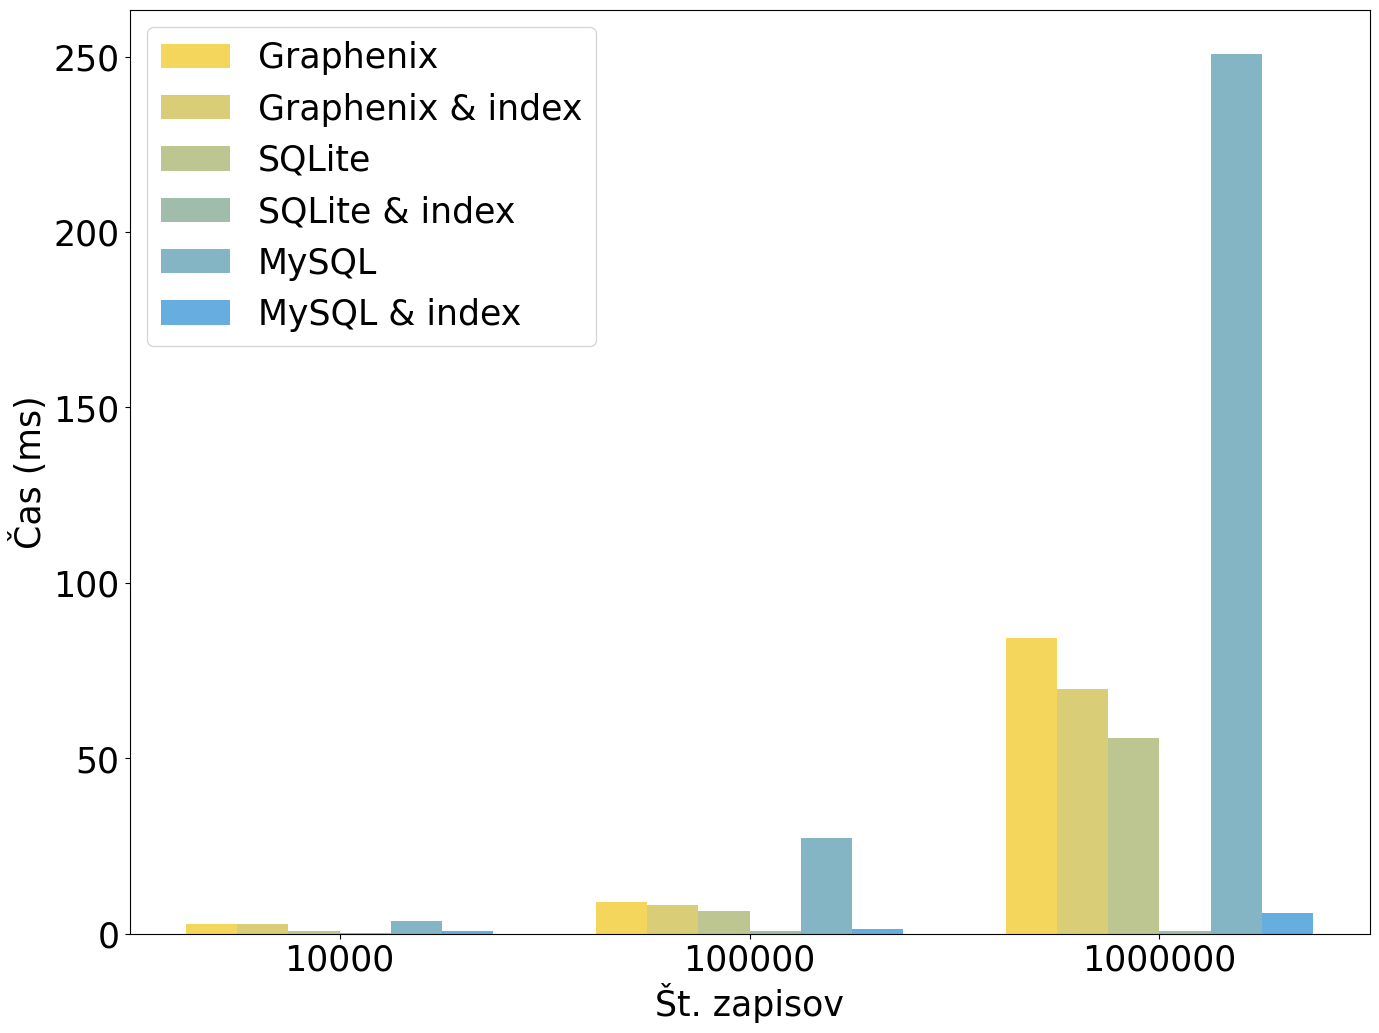
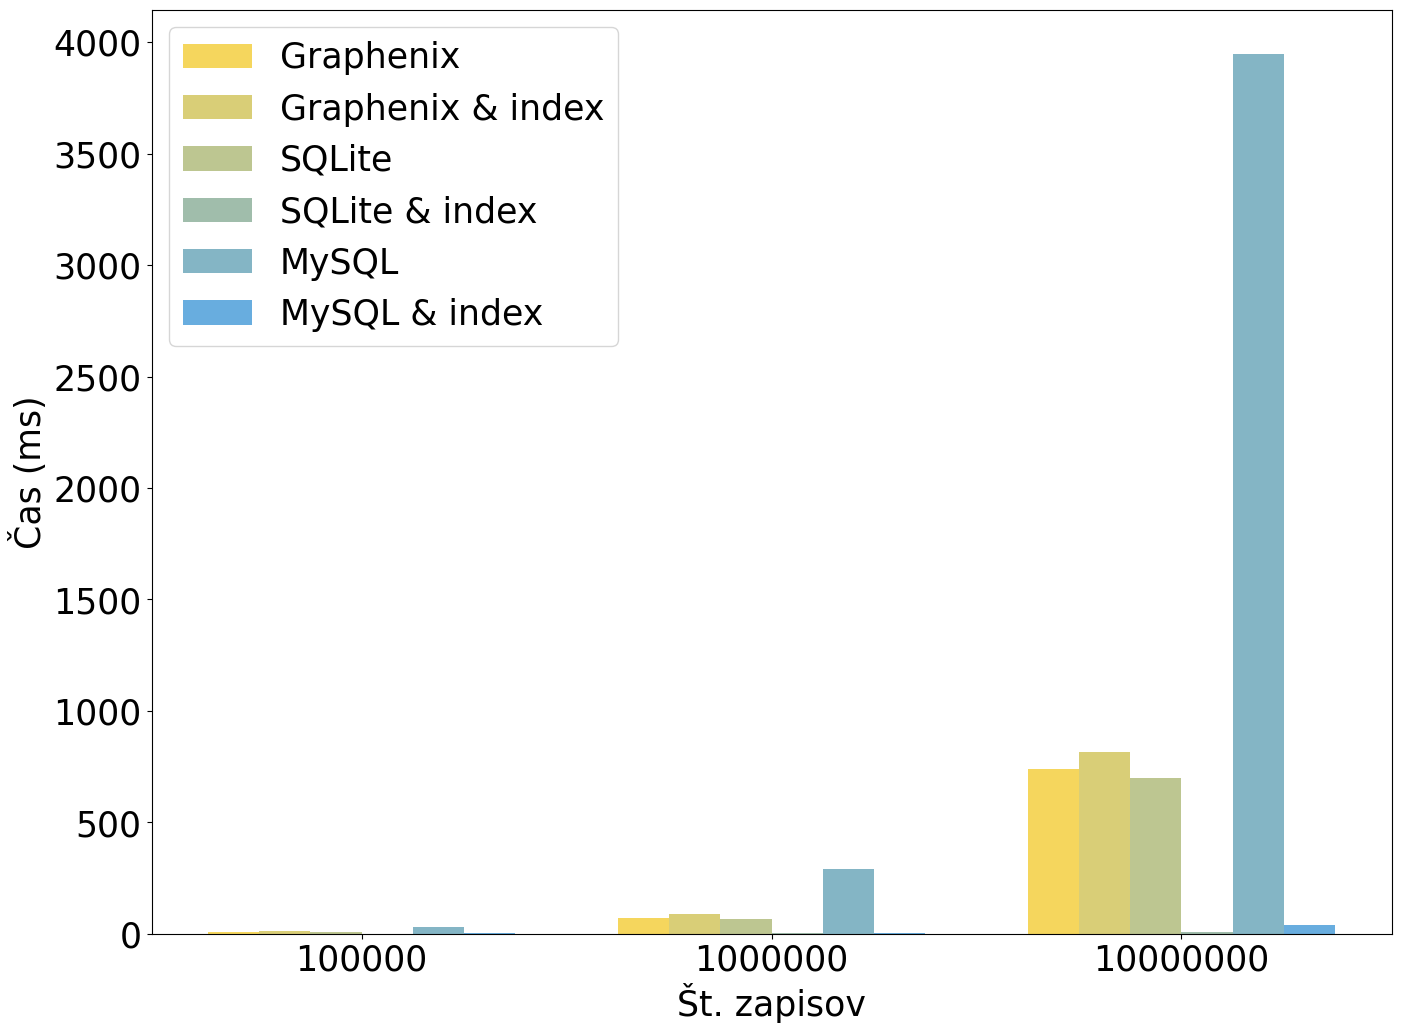
graph update for indexing speedups & re-ran some analysis

diff --git a/analysis/find_no_index/graph.py b/analysis/find_no_index/graph.py
@@ -12,16 +12,13 @@ def read_nums(file_path):
         return []
 
 def main():
-    sizes = (10000, 100000, 1000000)
-    ifiles = (f'./analysis/find_no_index/iresult_{s}.txt' for s in sizes)
-    files = (f'./analysis/find_no_index/result_{s}.txt' for s in sizes)
-    matrix = np.zeros((6, len(sizes)))
+    sizes = (100000, 1000000, 10000000)
+    files = (f'./analysis/find_no_index/speedup_{s}.txt' for s in sizes)
+    matrix = np.zeros((3, len(sizes)))
 
-    for i, (file, ifile) in enumerate(zip(files, ifiles)):
+    for i, (file, size) in enumerate(zip(files, sizes)):
         col = read_nums(file)
-        icol = read_nums(ifile)
-        vals = np.concatenate((col, icol), axis=0)
-        matrix[:, i] = vals
+        matrix[:, i] = col
 
     plt.rcParams.update({'font.size': 2.5 * plt.rcParams['font.size']})
     plt.style.use("fast")
@@ -29,23 +26,19 @@ def main():
     x_values = np.arange(len(sizes))
     fig, ax = plt.subplots(figsize=(16, 12))
     width = 0.125
-    hw = width / 2
-
-    ax.bar(x_values - hw - width * 2, matrix[0], width, label='Graphenix', color="#F5D65D")
-    ax.bar(x_values - hw - width, matrix[3], width, label='Graphenix & index', color="#D9CE77")
-    ax.bar(x_values - hw, matrix[1], width, label='SQLite', color="#BDC691")
-    ax.bar(x_values + hw, matrix[4], width, label='SQLite & index', color="#A0BDAB")
-    ax.bar(x_values + hw + width, matrix[2], width, label='MySQL', color="#84B5C5")
-    ax.bar(x_values + hw + width * 2, matrix[5], width, label='MySQL & index', color="#68ADDF")
+    
+    ax.bar(x_values - width, matrix[0], width, label='Graphenix', color="#EEEC7B")
+    ax.bar(x_values, matrix[1], width, label='SQLite', color="#92D6B4")
+    ax.bar(x_values + width, matrix[2], width, label='MySQL', color="#35BFEC")
 
     # Set labels and title
     ax.set_xlabel('Št. zapisov')
-    ax.set_ylabel('Čas (ms)')
+    ax.set_ylabel('Faktor pohitritve')
     ax.set_title('')
     ax.set_xticks(x_values)
     ax.set_xticklabels([str(s) for s in sizes])
     ax.legend()
-    plt.savefig(f'./analysis/find_no_index/indexing.png', bbox_inches='tight')
+    plt.savefig(f'./analysis/find_no_index/indexing_speedup.png', bbox_inches='tight')
     plt.close()
     
 

diff --git a/analysis/find_no_index/graph_old.py b/analysis/find_no_index/graph_old.py
@@ -1,0 +1,53 @@
+import numpy as np
+import matplotlib.pyplot as plt
+
+def read_nums(file_path): 
+    try:
+        with open(file_path, 'r') as file:
+            lines = file.readlines()
+            times = [float(line.strip()) for line in lines]
+        return np.array(times)
+    except Exception as ex:
+        print("err", ex)
+        return []
+
+def main():
+    sizes = (100000, 1000000, 10000000)
+    ifiles = (f'./analysis/find_no_index/iresult_{s}.txt' for s in sizes)
+    files = (f'./analysis/find_no_index/result_{s}.txt' for s in sizes)
+    matrix = np.zeros((6, len(sizes)))
+
+    for i, (file, ifile) in enumerate(zip(files, ifiles)):
+        col = read_nums(file)
+        icol = read_nums(ifile)
+        vals = np.concatenate((col, icol), axis=0)
+        matrix[:, i] = vals
+
+    plt.rcParams.update({'font.size': 2.5 * plt.rcParams['font.size']})
+    plt.style.use("fast")
+
+    x_values = np.arange(len(sizes))
+    fig, ax = plt.subplots(figsize=(16, 12))
+    width = 0.125
+    hw = width / 2
+
+    ax.bar(x_values - hw - width * 2, matrix[0], width, label='Graphenix', color="#F5D65D")
+    ax.bar(x_values - hw - width, matrix[3], width, label='Graphenix & index', color="#D9CE77")
+    ax.bar(x_values - hw, matrix[1], width, label='SQLite', color="#BDC691")
+    ax.bar(x_values + hw, matrix[4], width, label='SQLite & index', color="#A0BDAB")
+    ax.bar(x_values + hw + width, matrix[2], width, label='MySQL', color="#84B5C5")
+    ax.bar(x_values + hw + width * 2, matrix[5], width, label='MySQL & index', color="#68ADDF")
+
+    # Set labels and title
+    ax.set_xlabel('Št. zapisov')
+    ax.set_ylabel('Čas (ms)')
+    ax.set_title('')
+    ax.set_xticks(x_values)
+    ax.set_xticklabels([str(s) for s in sizes])
+    ax.legend()
+    plt.savefig(f'./analysis/find_no_index/indexing.png', bbox_inches='tight')
+    plt.close()
+    
+
+if __name__ == '__main__':
+    main()

diff --git a/graphenix/engine/parser.hpp b/graphenix/engine/parser.hpp
@@ -18,7 +18,7 @@
 #define CHUNK_SIZE 10 * 1024 * 1024
 #define ID_KEY "_id"
 
-#define MIN_CLUSTER_SIZE 3
+#define MIN_CLUSTER_SIZE 10
 #define MAX_CLUSTER_SIZE 1000000 // 1 MB
 
 typedef std::unordered_map<int64_t, int64_t> hashmap_ii;
